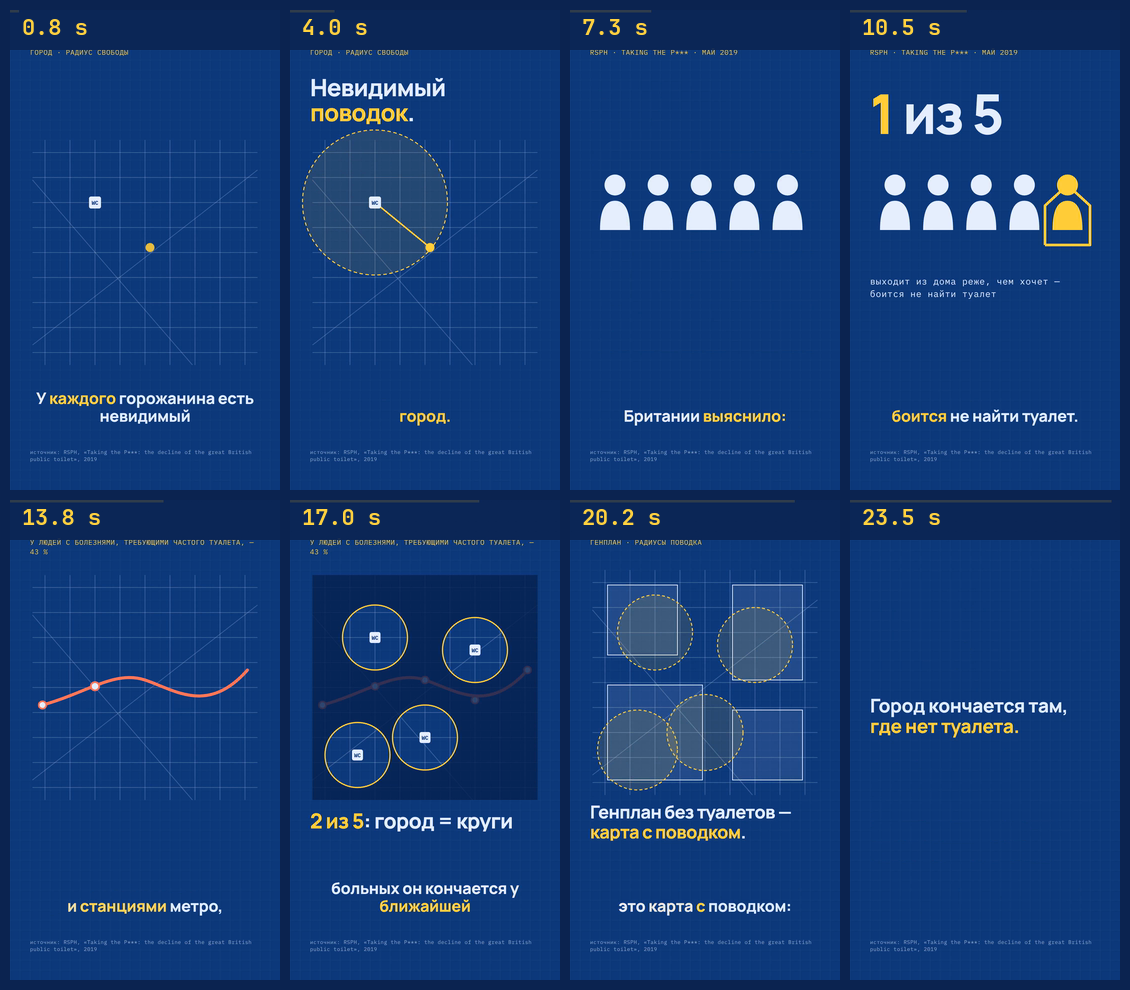
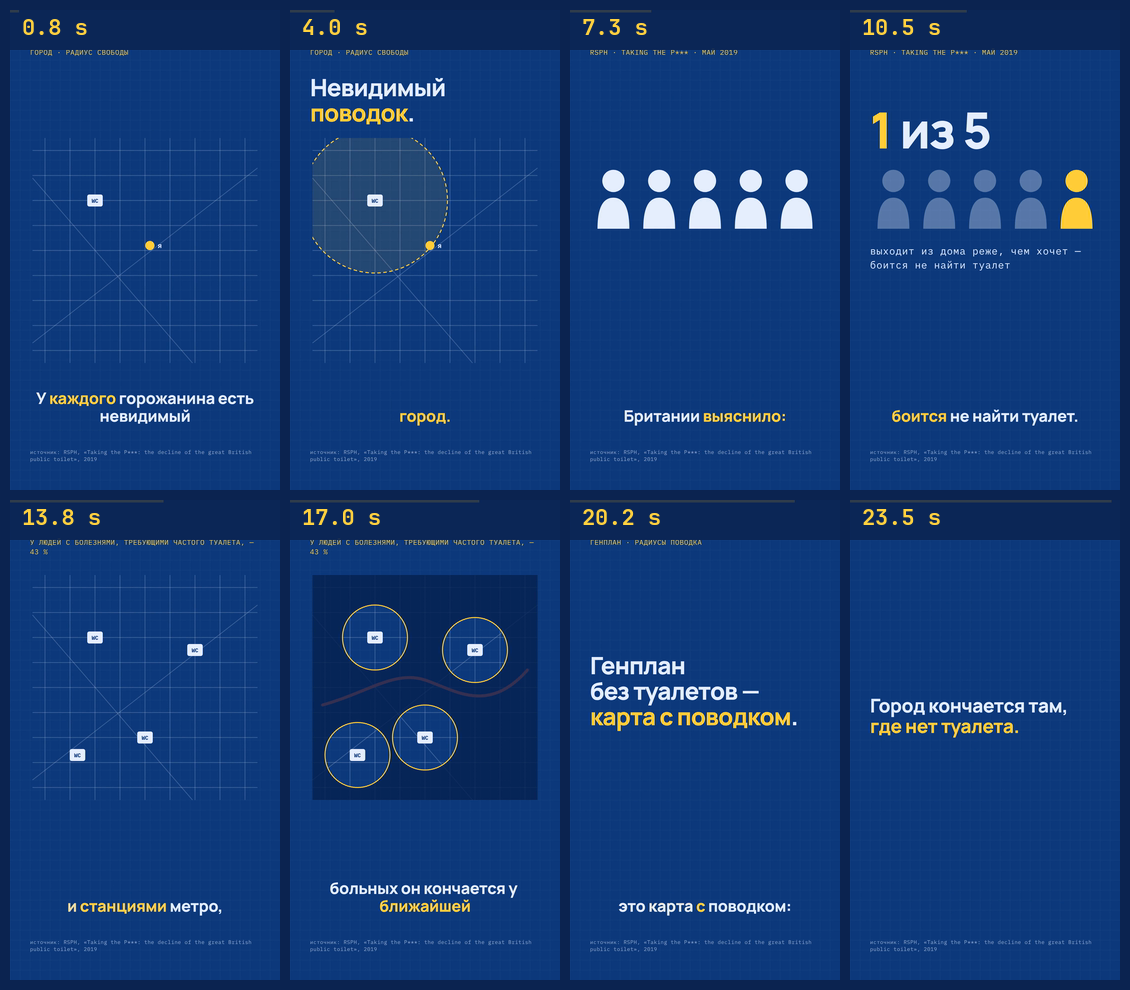
Документация продукта и медиа из свежих рендеров
- README (RU/EN): две аудитории — обычные люди (десктоп, установщики,
  reels new --text) и ML-инженеры (CLI, профили железа, Rust-конвейер,
  фабрика, status --json); быстрый старт по ОС; приложения со скриншотами;
  другие ролики; 114 ссылок проверены
- hero.gif, edits.gif, frames.png и terminal.gif пересобраны из чистого
  прогона примера со всеми исправлениями (8 мин 14 с на три монтажа, 4 ядра)
- CHANGELOG 0.2.0, NOTICE (Qwen3-TTS, голос примеров без указанной
  лицензии — аудио не распространяется), CONTRIBUTING, ссылка из guide.md
- «без сверки» вместо «сверка None» в выводе этапа голоса

diff --git a/reels/voice.py b/reels/voice.py
@@ -339,7 +339,8 @@ def synthesize(project: Project) -> dict:
         choice.update(engine=engine, requested=v["engine"], fallback=engine, fallback_reason=fallback)
     util.write_json(project.voice_dir / "choice.json", choice)
     if ok:
-        util.say(f"выбран дубль {best['file']} (сверка {best['ratio']})")
+        util.say(f"выбран дубль {best['file']} "
+                 f"({'без сверки' if best['ratio'] is None else 'сверка ' + str(best['ratio'])})")
     else:
         util.say(f"ВНИМАНИЕ: лучший дубль {best['file']} — сверка {best['ratio']} ниже {v['min_ratio']}: "
                  f"Whisper слышит «{best['heard']}». Поправьте ударения/текст или добавьте seeds.", err=True)

diff --git a/CONTRIBUTING.md b/CONTRIBUTING.md
@@ -5,32 +5,46 @@
 
 ## Окружение разработчика
 
-Нужны Python 3.10+, Node.js 22+ и ffmpeg 6+ в PATH.
+Нужны Python 3.10+, Node.js 22+ и ffmpeg 6+ в PATH; для приложений — Rust stable.
 
 ```bash
 git clone https://github.com/alteralto/local-ai-reels && cd local-ai-reels
 python -m venv .venv && source .venv/bin/activate     # Windows: .venv\Scripts\activate
-pip install -e .                                      # конвейер без моделей
-pip install -e .[ml]                                  # + F5-TTS, RUAccent, faster-whisper, MusicGen (нужен GPU)
-pip install pytest
+pip install -e ".[dev]"                               # конвейер без моделей + pytest, ruff, pre-commit
+pip install -e ".[ml]"                                # по желанию: F5-TTS, RUAccent, faster-whisper, MusicGen
+pre-commit install                                    # ruff и проверки файлов перед коммитом
+python -m reels doctor                                # что за железо и чего не хватает
 ```
 
-Для работы над шаблонами и рендером GPU не нужен: примеры в `examples/` используют готовую озвучку из `example/`.
+Вместо ручной установки можно `bash install.sh` / `install.ps1` (см. README). Для работы над шаблонами и рендером
+GPU не нужен: `examples/povodok` и `examples/povodok-templates` используют готовую озвучку из `example/`.
 
 ```bash
 python -m reels run examples/povodok-templates --yes --edit linear
 python -m reels run examples/povodok-templates --only snapshot      # только кадры и автопроверка
 ```
 
-## Тесты
+## Проверки
 
 ```bash
-python -m pytest                       # быстрые тесты: без моделей, сети и рендера
-REELS_INTEGRATION=1 python -m pytest   # + интеграционные: сборка и рендер примеров (нужны Node.js и ffmpeg, минуты)
+ruff check .                                   # линтер (как в lint.yml)
+python -m pytest                               # быстрые тесты: без моделей, сети и рендера
+REELS_INTEGRATION=1 python -m pytest           # + интеграционные: сборка и рендер примеров (Node.js, ffmpeg, минуты)
+python tools/make_scenes_doc.py --check        # docs/scenes.md совпадает с кодом шаблонов (как в CI)
 ```
 
 Быстрые тесты должны проходить за секунды и не трогать сеть. Всё, что запускает HyperFrames, Chrome или модели,
 помечайте как интеграционное (пропуск без `REELS_INTEGRATION=1`).
+
+Rust — рабочее пространство `app/` (`reels-core`, `reels-app`) и отдельный пакет `app/desktop`:
+
+```bash
+(cd app && cargo fmt --all --check && cargo clippy --workspace --all-targets -- -D warnings && cargo test --workspace)
+(cd app/desktop && cargo clippy --all-targets -- -D warnings && cargo test)
+```
+
+Интерфейс настольного приложения можно смотреть без Rust: `app/desktop/dist/index.html` в браузере
+(подробно — [app/desktop/README.md](app/desktop/README.md)).
 
 ## Как добавить шаблон сцены
 
@@ -78,7 +92,7 @@ def badge(ctx: SceneCtx, p: dict) -> SceneOut:
 
 1. добавьте тест в `tests/` (рендер HTML/CSS/JS шаблона на примере из `SceneDoc`, проверка селекторов и `tl.`);
 2. прогоните пример с новой сценой до `snapshot` и посмотрите кадры — автопроверка вёрстки должна быть чистой;
-3. обновите [docs/scenes.md](docs/scenes.md).
+3. пересоберите каталог и галерею: `python tools/make_scenes_doc.py` и `python tools/make_gallery.py`.
 
 ## Стиль кода
 
@@ -95,9 +109,12 @@ def badge(ctx: SceneCtx, p: dict) -> SceneOut:
 ## Pull request
 
 - Одна тема — один PR; опишите, что и зачем, приложите кадр или GIF, если меняется картинка.
-- `python -m pytest` зелёный; для изменений рендера — ещё и `REELS_INTEGRATION=1`.
+- `ruff check .` и `python -m pytest` зелёные; для изменений рендера — ещё и `REELS_INTEGRATION=1`;
+  для `app/` — `cargo fmt`, `clippy` и `cargo test`.
 - Новое поведение — в [CHANGELOG.md](CHANGELOG.md), раздел «Unreleased».
 - Картинки README пересобираются одной командой: `python tools/make_media.py` (после
   `python -m reels run examples/povodok --yes`).
+- Релиз: `python tools/bump_version.py X.Y.Z` (версия в `pyproject.toml`, `reels/__init__.py` и раздел
+  CHANGELOG), затем тег `vX.Y.Z` — пакет соберёт и опубликует `release.yml`.
 
 Участвуя в проекте, вы соглашаетесь с [правилами поведения](CODE_OF_CONDUCT.md).

diff --git a/docs/guide.md b/docs/guide.md
@@ -1,5 +1,13 @@
 # local-ai-reels: стек и инструкция
 
+> **Обычно этот документ не нужен.** Ролик собирает конвейер одной командой —
+> `python -m reels run <проект>` (или настольное приложение, [app/desktop](../app/desktop/README.md)):
+> озвучка, ударения, таймкоды, музыка, сцены, рендер и проверка идут сами, с кэшем и контрольными точками.
+> Как начать — [README](../README.md#быстрый-старт), устройство — [architecture.md](architecture.md),
+> сцены — [scenes.md](scenes.md), голоса — [voices.md](voices.md), железо — [hardware.md](hardware.md).
+> Ниже — **ручной режим**: те же шаги отдельными скриптами из `scripts/`. Он пригодится, чтобы понять, что
+> происходит внутри, или собрать что-то нестандартное.
+
 Инструкция описывает, как сделать вертикальный ролик (1080×1920, 25–30 с) с озвучкой, субтитрами, чертёжной
 графикой и музыкой. Всё, кроме сценария, работает локально и без платных сервисов. Нужна видеокарта NVIDIA
 с CUDA; проверено на карте уровня RTX 3060 (12 ГБ). Рендер 25-секундного ролика занимает около минуты.
